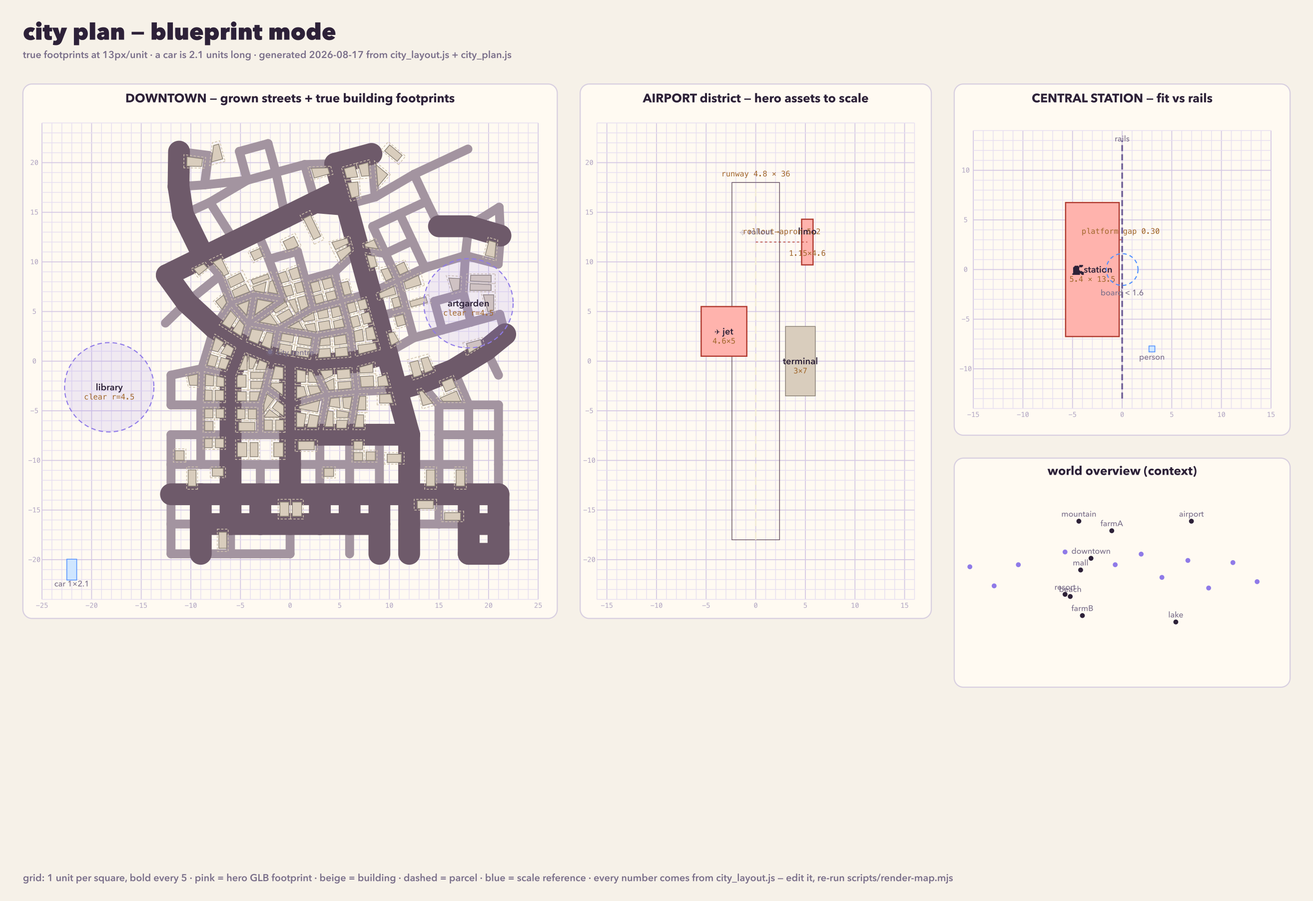
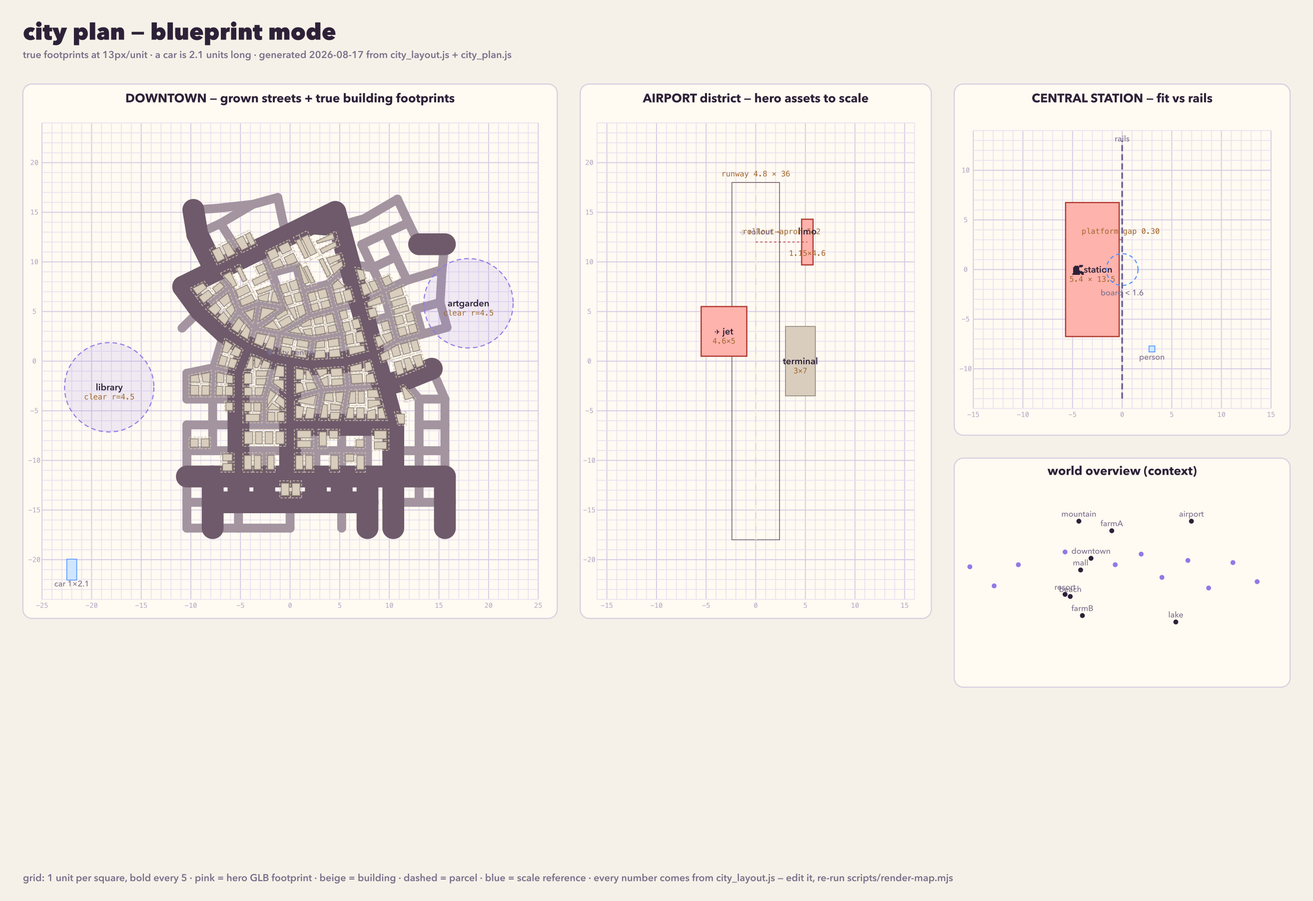
Cap the grown city at ±17 units — it was colliding with Harvest Fields
The ±22 bake ran the city into the farm district (FARM_A sits ~22 units
from downtown centre) and crowded the spur junctions. Rebaked the same
dense network at x2.6 (127 nodes / 198 edges / 185 lots) spanning ±17,
inside the plateau with clear margin to every outlying district.

Changed region(s): [[0.1248, 0.1553, 0.4056, 0.6522]]

diff --git a/city_plan.js b/city_plan.js
@@ -1,3 +1,4 @@
-// josauder dense run (pSeed 75) scaled x3.0 -> +-22 world units, so
-// blocks are 2.5-3.5 across and lanes leave buildable interiors.
-export default {"nodes":[[18.0,13.59],[15.0,13.59],[21.2,12.65],[21.0,-13.41],[18.0,-13.41],[21.0,-16.41],[15.0,-13.41],[18.0,-16.41],[21.0,-19.41],[12.0,-13.41],[18.0,-19.41],[9.0,-13.41],[12.0,-16.41],[12.0,-10.41],[6.0,-13.41],[9.0,-16.41],[12.0,-19.41],[12.0,-7.41],[3.0,-13.41],[9.0,-19.41],[10.76,-2.87],[0.0,-13.41],[9.76,0.81],[13.13,-2.22],[-3.0,-13.41],[0.0,-10.41],[8.76,4.45],[6.43,-0.1],[16.47,-0.87],[-6.0,-13.41],[0.0,-7.41],[8.11,6.85],[2.23,-0.38],[19.75,1.14],[-9.0,-13.41],[-6.0,-10.41],[0.0,-4.41],[3.0,-7.41],[6.9,11.28],[-1.75,0.3],[-12.0,-13.41],[-9.0,-16.41],[-6.0,-7.41],[0.0,0.0],[6.0,-7.41],[5.68,15.75],[-4.82,1.56],[-9.0,-19.41],[-6.0,-16.41],[-6.0,-4.41],[9.0,-7.41],[4.55,19.89],[-7.64,3.36],[-3.0,-16.41],[-6.0,-1.41],[8.2,20.88],[-10.42,5.92],[0.0,-16.41],[-12.42,8.67],[3.0,-16.41],[-8.7,10.5],[6.0,-16.41],[-5.56,12.04],[-10.79,14.76],[-3.35,13.12],[-11.24,17.59],[-0.47,14.53],[-11.19,21.11],[2.54,16.01],[5.25,17.34],[17.66,10.64],[20.97,9.78],[21.07,15.51],[21.0,-1.41],[21.0,-7.41],[21.0,-10.41],[21.0,-4.41],[18.0,-4.41],[18.0,-7.41],[15.0,-7.41],[15.0,-10.41],[15.0,-4.41],[15.0,-16.41],[18.0,-10.41],[6.0,-10.41],[3.0,-10.41],[9.0,-10.41],[-3.0,-10.41],[11.66,5.24],[6.72,-3.07],[10.87,8.14],[12.45,2.35],[3.73,-3.36],[5.22,6.06],[2.71,2.58],[9.6,10.85],[15.34,3.14],[6.01,3.16],[4.43,8.95],[-1.21,3.25],[-2.47,-2.6],[12.32,12.12],[14.55,6.03],[1.53,8.16],[-4.16,3.78],[-12.0,-16.41],[-9.0,-7.41],[8.58,16.54],[11.04,14.84],[13.59,9.41],[17.45,6.82],[2.32,5.27],[0.74,11.06],[-3.62,6.74],[-12.0,-19.41],[-9.0,-10.41],[-9.0,-4.41],[-6.0,-19.41],[-3.0,-4.41],[-5.97,5.84],[8.33,13.57],[13.76,16.11],[18.24,3.93],[-2.15,10.27],[-0.67,6.2],[-12.0,-10.41],[-12.0,-4.41],[-3.0,-19.41],[-3.0,-7.41],[-7.04,8.64],[-8.88,-0.76],[-12.56,3.84],[12.49,18.83],[21.13,4.72],[-12.0,-7.41],[-12.0,-1.41],[1.47,19.81],[0.0,-19.41],[15.21,20.1],[21.68,2.71],[-1.43,19.02],[17.92,21.37],[-2.22,21.92],[6.0,-19.41],[-8.08,16.01],[-5.11,21.13],[-4.32,18.23],[-8.23,20.73],[-8.62,17.76]],"edges":[[0,1,0],[0,2,0],[0,70,1],[0,72,1],[1,121,1],[2,71,1],[2,72,1],[3,4,0],[3,5,0],[3,75,1],[4,6,0],[4,7,0],[4,83,1],[5,7,0],[5,8,0],[6,9,0],[6,80,1],[6,82,1],[7,10,0],[7,82,1],[8,10,0],[9,11,0],[9,12,0],[9,13,0],[11,14,0],[11,15,0],[11,86,1],[12,16,0],[12,82,1],[13,17,0],[13,80,1],[14,18,0],[14,61,0],[14,84,1],[15,19,0],[15,61,0],[17,20,0],[17,50,0],[18,21,0],[18,59,0],[18,85,1],[20,22,0],[20,23,0],[20,89,1],[21,24,0],[21,25,0],[22,26,0],[22,27,0],[22,91,1],[23,28,0],[23,81,1],[24,29,0],[24,53,0],[24,87,1],[25,30,0],[25,85,1],[25,87,1],[26,31,0],[26,88,1],[27,32,0],[27,89,1],[27,97,1],[28,33,0],[28,77,1],[29,34,0],[29,35,0],[29,48,0],[30,36,0],[30,37,0],[30,128,1],[31,38,0],[31,90,1],[31,93,1],[32,43,0],[32,92,1],[32,94,1],[33,73,1],[33,139,0],[34,40,0],[34,41,0],[35,42,0],[35,87,1],[35,115,1],[36,43,0],[36,92,1],[36,100,1],[37,44,0],[37,85,1],[37,92,1],[38,45,0],[38,95,1],[38,98,1],[39,43,0],[39,46,0],[39,99,1],[39,100,1],[40,105,1],[40,125,1],[41,47,0],[41,48,0],[41,105,1],[42,49,0],[42,106,1],[42,128,1],[44,50,0],[44,84,1],[44,89,1],[45,68,0],[45,69,0],[45,107,1],[46,52,0],[46,54,0],[46,104,1],[47,114,1],[47,117,1],[48,53,0],[48,117,1],[49,54,0],[49,116,1],[49,118,1],[50,86,1],[51,55,0],[51,69,0],[51,136,1],[52,56,0],[52,119,1],[52,130,1],[53,57,0],[54,130,1],[55,107,1],[56,58,0],[56,129,1],[56,131,1],[57,59,0],[57,137,1],[58,60,0],[59,61,0],[60,62,0],[60,63,0],[60,129,1],[61,143,1],[62,64,0],[62,144,1],[63,65,0],[63,144,1],[64,66,0],[64,123,1],[65,67,0],[65,148,1],[66,68,0],[66,140,1],[67,147,1],[68,69,0],[68,136,1],[70,71,1],[70,109,1],[70,110,1],[74,75,1],[74,76,1],[74,78,1],[76,77,1],[77,78,1],[77,81,1],[78,79,1],[78,83,1],[79,80,1],[79,81,1],[80,83,1],[84,85,1],[84,86,1],[88,90,1],[88,91,1],[89,92,1],[90,95,1],[90,109,1],[91,96,1],[93,97,1],[93,98,1],[93,111,1],[94,97,1],[94,99,1],[95,101,1],[95,120,1],[96,102,1],[96,122,1],[98,103,1],[99,104,1],[99,111,1],[100,118,1],[101,108,1],[101,109,1],[102,110,1],[103,111,1],[103,112,1],[104,113,1],[104,119,1],[104,124,1],[105,114,1],[106,115,1],[106,116,1],[106,134,1],[107,132,1],[108,120,1],[108,121,1],[110,122,1],[112,123,1],[113,119,1],[113,124,1],[115,125,1],[116,126,1],[116,130,1],[117,127,1],[118,128,1],[119,129,1],[121,132,1],[122,133,1],[123,124,1],[125,134,1],[126,135,1],[127,137,1],[130,135,1],[132,138,1],[133,139,1],[136,140,1],[138,141,1],[140,142,1],[140,146,1],[142,145,1],[144,146,1],[145,146,1],[146,148,1],[147,148,1]],"lots":[{"a":2.69,"c":[1.9,-4.6],"v":[[3.13,-5.33],[0.51,-4.85],[0.51,-4.52],[3.43,-3.7]]},{"a":2.69,"c":[7.77,1.34],"v":[[9.13,1.17],[6.6,0.48],[6.44,1.7],[8.9,2.02]]},{"a":2.67,"c":[7.76,-2.04],"v":[[8.7,-2.73],[6.94,-2.82],[6.79,-1.35],[8.63,-1.26]]},{"a":2.67,"c":[-3.5,2.53],"v":[[-3.15,1.42],[-4.45,1.96],[-3.99,3.51],[-2.41,3.22]]},{"a":2.62,"c":[1.63,-8.5],"v":[[0.51,-9.09],[0.51,-7.92],[2.76,-7.92],[2.76,-9.09]]},{"a":2.61,"c":[-1.17,-8.91],"v":[[-0.51,-9.9],[-1.83,-9.9],[-1.83,-7.92],[-0.51,-7.92]]},{"a":2.6,"c":[-4.37,-6.59],"v":[[-5.49,-7.17],[-5.49,-6.01],[-3.24,-6.01],[-3.24,-7.17]]},{"a":2.52,"c":[-6.06,4.13],"v":[[-6.06,2.96],[-7.15,3.65],[-5.94,5.45],[-5.09,4.48]]},{"a":2.48,"c":[-5.0,7.07],"v":[[-4.26,8.06],[-3.72,6.96],[-5.83,6.15],[-6.19,7.11]]},{"a":2.38,"c":[-2.85,5.61],"v":[[-3.82,4.31],[-3.43,6.46],[-1.29,6.07]]},{"a":2.35,"c":[-2.23,2.15],"v":[[-1.88,0.9],[-3.15,1.42],[-2.41,3.22],[-1.49,3.05]]},{"a":2.32,"c":[-1.18,-1.19],"v":[[-0.51,-2.04],[-2.08,-2.04],[-1.64,-0.24],[-0.51,-0.43]]},{"a":2.3,"c":[2.32,-6.05],"v":[[1.82,-5.09],[3.13,-5.33],[2.85,-6.9],[1.49,-6.9]]},{"a":2.24,"c":[5.4,-1.3],"v":[[6.24,-0.62],[6.36,-1.86],[4.54,-1.98],[4.46,-0.74]]},{"a":2.23,"c":[1.08,-5.93],"v":[[0.51,-6.9],[0.51,-4.85],[1.82,-5.09],[1.49,-6.9]]},{"a":2.18,"c":[1.27,0.91],"v":[[2.07,0.16],[0.28,0.47],[0.48,1.64],[2.27,1.35]]},{"a":2.17,"c":[-0.51,4.57],"v":[[0.05,5.53],[0.6,4.56],[-1.03,3.62],[-1.67,4.55]]},{"a":2.14,"c":[-4.96,-1.93],"v":[[-4.23,-2.9],[-5.49,-2.9],[-5.49,-1.51],[-5.36,-1.18],[-4.23,-1.18]]},{"a":2.11,"c":[-0.46,1.22],"v":[[0.28,0.47],[-1.42,0.76],[-1.2,1.97],[0.48,1.68]]},{"a":2.08,"c":[5.18,0.93],"v":[[6.12,0.4],[4.35,0.27],[4.27,1.42],[5.96,1.64]]},{"a":2.04,"c":[4.0,-5.82],"v":[[3.34,-6.9],[3.74,-4.67],[4.47,-4.79],[4.47,-6.9]]},{"a":2.03,"c":[5.06,2.13],"v":[[5.96,1.64],[4.27,1.42],[4.19,2.6],[5.8,2.88]]},{"a":2.01,"c":[8.09,2.78],"v":[[7.62,1.86],[7.41,3.49],[8.42,3.77],[8.9,2.02]]},{"a":2.01,"c":[1.12,-1.53],"v":[[1.73,-2.35],[0.51,-2.35],[0.51,-0.6],[1.73,-0.81]]},{"a":1.99,"c":[3.48,0.82],"v":[[4.35,0.27],[2.56,0.15],[2.76,1.38],[4.27,1.48]]},{"a":1.97,"c":[1.3,5.9],"v":[[0.52,6.57],[1.64,6.87],[2.04,5.38],[1.0,4.79]]},{"a":1.94,"c":[-5.12,3.34],"v":[[-4.88,2.2],[-6.06,2.96],[-5.09,4.48],[-4.43,3.73]]},{"a":1.9,"c":[1.46,2.02],"v":[[2.27,1.35],[0.48,1.64],[0.66,2.69],[2.44,2.38]]},{"a":1.9,"c":[5.49,-2.43],"v":[[4.54,-1.98],[6.36,-1.86],[6.46,-2.86],[4.61,-3.04]]},{"a":1.89,"c":[-7.34,1.58],"v":[[-6.42,1.98],[-7.25,0.68],[-8.11,0.94],[-7.58,2.72]]},{"a":1.89,"c":[3.47,3.57],"v":[[4.33,3.11],[2.81,2.84],[2.6,4.04],[4.12,4.31]]},{"a":1.88,"c":[0.46,8.81],"v":[[1.26,8.24],[0.12,7.93],[-0.38,9.3],[0.85,9.75]]},{"a":1.88,"c":[7.68,-0.8],"v":[[8.63,-1.26],[6.79,-1.35],[6.72,-0.55],[8.57,-0.04]]},{"a":1.88,"c":[7.27,-4.23],"v":[[7.77,-5.17],[6.61,-5.17],[6.92,-3.3],[7.77,-3.26]]},{"a":1.87,"c":[6.93,2.56],"v":[[6.44,1.7],[6.25,3.17],[7.41,3.49],[7.62,1.86]]},{"a":1.85,"c":[3.79,7.81],"v":[[3.33,6.97],[2.96,8.3],[4.26,8.66],[4.62,7.32]]},{"a":1.81,"c":[-1.03,-4.82],"v":[[-0.51,-5.72],[-0.64,-5.72],[-2.09,-4.66],[-1.38,-3.69],[-0.51,-4.33]]},{"a":1.79,"c":[-1.33,-2.58],"v":[[-0.51,-3.74],[-2.2,-2.5],[-2.08,-2.04],[-0.51,-2.04]]},{"a":1.79,"c":[1.11,-3.09],"v":[[0.51,-2.35],[1.52,-2.35],[1.88,-3.63],[0.51,-4.02]]},{"a":1.78,"c":[-1.96,4.01],"v":[[-1.25,3.5],[-3.55,3.92],[-1.98,5.0],[-1.03,3.62]]},{"a":1.75,"c":[-7.8,0.04],"v":[[-8.11,0.94],[-7.03,0.62],[-7.47,-0.83],[-8.57,-0.58]]},{"a":1.75,"c":[5.74,-4.2],"v":[[6.14,-5.07],[5.26,-4.92],[5.12,-3.47],[6.43,-3.34]]},{"a":1.73,"c":[-0.27,2.33],"v":[[0.48,1.68],[-1.2,1.97],[-1.02,2.97],[0.66,2.69]]},{"a":1.72,"c":[-8.11,-1.94],"v":[[-8.7,-2.69],[-8.65,-1.06],[-7.52,-1.31],[-7.57,-2.72]]},{"a":1.72,"c":[4.51,-4.16],"v":[[5.12,-3.47],[5.26,-4.92],[3.74,-4.67],[3.94,-3.58]]},{"a":1.72,"c":[-6.25,1.07],"v":[[-5.45,1.36],[-5.88,0.27],[-7.25,0.68],[-6.42,1.98]]},{"a":1.71,"c":[-7.11,-3.45],"v":[[-6.51,-4.17],[-7.7,-4.17],[-7.7,-2.72],[-6.51,-2.76]]},{"a":1.68,"c":[-6.7,-0.25],"v":[[-7.03,0.62],[-5.88,0.27],[-6.41,-1.07],[-7.47,-0.83]]},{"a":1.68,"c":[7.68,4.33],"v":[[8.42,3.77],[7.33,3.47],[6.94,4.9],[8.03,5.2]]},{"a":1.67,"c":[4.63,4.95],"v":[[5.05,5.76],[5.41,4.46],[4.15,4.12],[3.92,5.45]]},{"a":1.67,"c":[-3.17,7.3],"v":[[-2.38,6.75],[-3.65,6.98],[-3.72,6.96],[-4.01,7.55],[-2.11,8.24]]},{"a":1.65,"c":[-2.19,-6.44],"v":[[-1.62,-7.17],[-2.76,-7.17],[-2.76,-5.72],[-1.62,-5.72]]},{"a":1.65,"c":[6.52,3.87],"v":[[7.33,3.47],[6.25,3.17],[6.24,3.21],[5.86,4.6],[6.94,4.9]]},{"a":1.65,"c":[2.44,-2.89],"v":[[1.88,-3.63],[1.52,-2.35],[2.95,-2.35],[3.39,-3.21]]},{"a":1.62,"c":[-0.22,7.02],"v":[[0.22,7.96],[0.6,6.59],[-0.4,6.32],[-0.56,6.6],[-0.94,7.64]]},{"a":1.62,"c":[-2.31,-4.18],"v":[[-1.38,-3.69],[-2.76,-5.57],[-2.76,-4.44],[-2.34,-2.99]]},{"a":1.61,"c":[-1.06,-6.44],"v":[[-0.51,-7.17],[-1.62,-7.17],[-1.62,-5.72],[-0.51,-5.72]]},{"a":1.61,"c":[-3.3,-2.41],"v":[[-4.23,-1.87],[-2.53,-1.87],[-2.7,-2.53],[-2.81,-2.9],[-4.23,-2.9]]},{"a":1.61,"c":[-2.99,8.27],"v":[[-1.94,8.99],[-1.72,8.38],[-4.01,7.55],[-4.3,8.14]]},{"a":1.6,"c":[2.58,7.49],"v":[[3.32,6.99],[2.19,6.68],[1.83,7.99],[2.96,8.3]]},{"a":1.59,"c":[5.2,-6.35],"v":[[4.47,-6.9],[4.47,-5.81],[6.02,-5.81],[5.84,-6.9]]},{"a":1.59,"c":[-3.62,-3.53],"v":[[-4.24,-2.9],[-2.81,-2.9],[-3.18,-4.17],[-4.24,-4.17]]},{"a":1.59,"c":[-4.87,-3.53],"v":[[-5.49,-2.9],[-4.24,-2.9],[-4.24,-4.17],[-5.49,-4.17]]},{"a":1.57,"c":[3.32,4.72],"v":[[4.12,4.31],[2.71,4.06],[2.53,5.08],[3.92,5.45]]},{"a":1.56,"c":[-3.33,-1.43],"v":[[-4.23,-1.0],[-2.32,-1.0],[-2.53,-1.87],[-4.23,-1.87]]},{"a":1.56,"c":[-0.65,8.45],"v":[[-0.38,9.3],[0.12,7.93],[-0.94,7.64],[-1.41,8.93]]},{"a":1.55,"c":[-3.81,-5.33],"v":[[-4.38,-4.65],[-3.24,-4.65],[-3.24,-6.01],[-4.38,-6.01]]},{"a":1.54,"c":[-4.6,5.47],"v":[[-4.31,4.32],[-5.56,5.74],[-3.94,6.36]]},{"a":1.53,"c":[4.13,6.6],"v":[[4.92,6.22],[3.63,5.87],[3.33,6.97],[4.62,7.32]]},{"a":1.53,"c":[0.93,7.42],"v":[[1.64,6.87],[0.6,6.59],[0.22,7.96],[1.26,8.24]]},{"a":1.52,"c":[-4.93,-5.33],"v":[[-5.49,-6.01],[-5.49,-4.65],[-4.38,-4.65],[-4.38,-6.01]]},{"a":1.51,"c":[3.76,-1.28],"v":[[4.46,-0.74],[4.51,-1.47],[3.34,-2.06],[2.74,-0.86]]},{"a":1.5,"c":[-8.21,-3.44],"v":[[-7.7,-4.17],[-8.75,-4.17],[-8.7,-2.69],[-7.7,-2.72]]},{"a":1.49,"c":[6.23,5.39],"v":[[6.94,4.9],[5.86,4.6],[5.51,5.89],[6.59,6.18]]},{"a":1.48,"c":[-4.59,-0.18],"v":[[-4.23,-1.18],[-5.36,-1.18],[-4.54,0.89],[-4.23,0.76]]},{"a":1.46,"c":[3.54,1.96],"v":[[4.27,1.48],[2.76,1.38],[2.92,2.37],[4.19,2.6]]},{"a":1.46,"c":[-2.83,-0.44],"v":[[-2.1,-0.11],[-2.32,-1.0],[-3.72,-1.0],[-3.17,0.33]]},{"a":1.46,"c":[4.9,3.76],"v":[[5.41,4.46],[5.71,3.35],[4.33,3.11],[4.15,4.12]]},{"a":1.44,"c":[-1.81,7.47],"v":[[-1.72,8.38],[-1.04,6.51],[-2.38,6.75],[-2.11,8.24]]},{"a":1.42,"c":[5.28,-5.37],"v":[[4.47,-5.81],[4.47,-4.79],[6.14,-5.07],[6.02,-5.81]]},{"a":1.38,"c":[-7.06,-5.27],"v":[[-7.61,-4.65],[-6.51,-4.65],[-6.51,-5.9],[-7.61,-5.9]]},{"a":1.37,"c":[2.91,6.28],"v":[[3.63,5.87],[2.49,5.56],[2.19,6.68],[3.32,6.99]]},{"a":1.37,"c":[-7.03,-2.08],"v":[[-7.57,-2.72],[-7.52,-1.31],[-6.51,-1.54],[-6.51,-2.76]]},{"a":1.35,"c":[4.08,-2.42],"v":[[3.34,-2.06],[4.51,-1.47],[4.61,-3.04],[3.87,-3.11]]},{"a":1.35,"c":[0.43,5.56],"v":[[0.6,4.56],[-0.4,6.32],[0.52,6.57],[1.0,4.79]]},{"a":1.32,"c":[2.19,3.3],"v":[[2.6,4.04],[2.81,2.84],[2.71,2.82],[1.63,3.01],[1.19,3.79]]},{"a":1.29,"c":[-0.91,5.56],"v":[[-1.98,5.0],[-0.38,6.11],[-0.56,6.6],[0.05,5.53],[-1.67,4.55]]},{"a":1.27,"c":[2.16,-1.6],"v":[[2.22,-0.9],[2.95,-2.35],[1.73,-2.35],[1.73,-0.81]]},{"a":1.27,"c":[-3.84,-0.22],"v":[[-3.17,0.33],[-3.72,-1.0],[-4.23,-1.0],[-4.23,0.76]]},{"a":1.26,"c":[1.96,4.43],"v":[[2.71,4.06],[1.19,3.79],[0.95,4.2],[2.42,5.04],[2.53,5.08]]},{"a":1.18,"c":[-2.06,-5.42],"v":[[-2.09,-4.66],[-0.64,-5.72],[-2.76,-5.72],[-2.76,-5.57]]},{"a":1.16,"c":[0.69,3.53],"v":[[0.95,4.2],[1.63,3.01],[-0.51,3.37]]},{"a":3.56,"c":[2.22,13.48],"v":[[2.44,11.78],[1.01,14.69],[2.0,15.18],[3.43,12.26]]},{"a":2.64,"c":[12.32,7.9],"v":[[13.55,7.64],[11.43,7.0],[11.15,8.0],[13.16,8.94]]},{"a":2.61,"c":[-5.48,8.16],"v":[[-4.81,9.18],[-4.26,8.06],[-6.19,7.11],[-6.64,8.28]]},{"a":2.6,"c":[-4.83,-8.91],"v":[[-4.18,-9.9],[-5.49,-9.9],[-5.49,-7.92],[-4.18,-7.92]]},{"a":2.57,"c":[0.7,-14.91],"v":[[1.34,-15.9],[0.05,-15.9],[0.05,-13.92],[1.34,-13.92]]},{"a":2.54,"c":[12.72,-0.91],"v":[[11.8,0.14],[12.96,0.46],[13.5,-1.52],[12.96,-1.74],[12.36,-1.9]]},{"a":2.47,"c":[-0.58,-14.91],"v":[[0.05,-15.9],[-1.2,-15.9],[-1.2,-13.92],[0.05,-13.92]]},{"a":2.41,"c":[0.11,11.76],"v":[[0.49,12.89],[1.14,11.57],[0.42,11.21],[-0.45,10.98],[-1.03,12.15]]},{"a":2.35,"c":[-6.89,9.34],"v":[[-8.12,10.21],[-6.95,10.78],[-5.9,8.64],[-6.64,8.28],[-6.83,8.77]]},{"a":2.3,"c":[10.5,-9.79],"v":[[9.51,-10.37],[9.51,-9.21],[11.49,-9.21],[11.49,-10.37]]},{"a":2.25,"c":[13.77,-0.35],"v":[[12.96,0.46],[13.95,0.73],[14.67,-1.05],[13.5,-1.52]]},{"a":2.17,"c":[-3.63,-8.91],"v":[[-3.08,-9.9],[-4.18,-9.9],[-4.18,-7.92],[-3.08,-7.92]]},{"a":2.11,"c":[9.8,6.86],"v":[[11.01,6.71],[8.84,6.11],[8.65,6.83],[10.71,7.8]]},{"a":2.09,"c":[9.63,-3.78],"v":[[8.78,-4.4],[8.78,-3.21],[10.3,-3.13],[10.65,-4.4]]},{"a":2.03,"c":[5.49,10.95],"v":[[6.41,11.15],[4.96,9.78],[4.37,10.98],[6.21,11.88]]},{"a":2.01,"c":[5.11,11.87],"v":[[4.37,10.98],[3.86,12.01],[6.01,12.6],[6.21,11.88]]},{"a":1.94,"c":[12.94,5.97],"v":[[13.95,6.7],[14.2,5.88],[11.9,5.26],[11.7,6.02]]},{"a":1.9,"c":[13.51,-3.69],"v":[[13.32,-4.79],[12.79,-2.84],[13.24,-2.72],[14.69,-4.42]]},{"a":1.88,"c":[7.01,-6.03],"v":[[7.56,-6.9],[6.33,-6.9],[6.61,-5.17],[7.56,-5.17]]},{"a":1.84,"c":[9.32,-2.0],"v":[[10.18,-2.66],[8.7,-2.73],[8.64,-1.47],[9.77,-1.16]]},{"a":1.81,"c":[5.64,7.34],"v":[[6.37,6.62],[5.39,6.35],[4.92,8.07],[5.9,8.34]]},{"a":1.78,"c":[-9.77,-1.92],"v":[[-9.18,-2.65],[-10.25,-2.62],[-10.52,-1.35],[-9.13,-1.06]]},{"a":1.73,"c":[11.27,9.34],"v":[[10.99,8.45],[10.41,9.69],[11.56,10.23],[12.13,8.99]]},{"a":1.72,"c":[11.1,4.1],"v":[[10.71,3.25],[10.33,4.63],[11.49,4.95],[11.87,3.57]]},{"a":1.68,"c":[-11.13,-9.5],"v":[[-10.5,-10.17],[-11.76,-10.17],[-11.76,-8.84],[-10.5,-8.84]]},{"a":1.67,"c":[-7.28,-11.19],"v":[[-8.05,-11.74],[-8.05,-10.65],[-6.51,-10.65],[-6.51,-11.74]]},{"a":1.67,"c":[-3.36,10.76],"v":[[-2.96,11.58],[-2.51,10.5],[-3.7,9.91],[-4.26,11.04]]},{"a":1.65,"c":[8.28,10.05],"v":[[8.02,9.11],[7.52,10.94],[8.59,10.77],[8.97,9.37]]},{"a":1.64,"c":[9.75,8.76],"v":[[9.62,7.82],[8.91,9.35],[9.91,9.62],[10.55,8.25]]},{"a":1.56,"c":[10.37,2.34],"v":[[10.15,1.31],[9.7,2.98],[10.46,3.18],[11.19,1.9]]},{"a":1.54,"c":[8.12,-9.57],"v":[[8.76,-8.97],[8.76,-10.17],[7.48,-10.17],[7.48,-8.97]]},{"a":1.51,"c":[-6.87,5.94],"v":[[-7.74,6.04],[-6.64,6.93],[-6.23,5.87],[-6.86,4.94]]},{"a":1.5,"c":[7.31,5.69],"v":[[8.03,5.2],[6.94,4.9],[6.59,6.18],[7.68,6.48]]},{"a":1.49,"c":[3.9,-11.21],"v":[[3.24,-11.77],[3.24,-10.65],[4.57,-10.65],[4.57,-11.77]]},{"a":1.48,"c":[-8.18,-6.53],"v":[[-7.6,-7.17],[-8.76,-7.17],[-8.76,-5.9],[-7.6,-5.9]]},{"a":1.46,"c":[-7.1,-8.27],"v":[[-7.69,-7.65],[-6.51,-7.65],[-6.51,-8.89],[-7.69,-8.89]]},{"a":1.45,"c":[-8.97,9.29],"v":[[-9.28,8.44],[-9.98,9.3],[-8.57,9.99],[-8.06,9.42]]},{"a":1.43,"c":[-8.19,-5.27],"v":[[-8.76,-5.9],[-8.76,-4.65],[-7.61,-4.65],[-7.61,-5.9]]},{"a":1.41,"c":[6.86,-8.49],"v":[[6.24,-7.92],[7.48,-7.92],[7.48,-9.05],[6.24,-9.05]]},{"a":1.39,"c":[6.86,-9.61],"v":[[7.48,-9.05],[7.48,-10.17],[6.24,-10.17],[6.24,-9.05]]},{"a":1.37,"c":[10.7,5.92],"v":[[10.38,5.14],[10.03,6.44],[11.01,6.71],[11.36,5.41]]},{"a":1.34,"c":[8.11,11.72],"v":[[7.38,11.45],[7.28,11.82],[8.59,12.43],[9.19,11.16]]},{"a":1.33,"c":[-8.22,-8.27],"v":[[-8.76,-8.89],[-8.76,-7.65],[-7.69,-7.65],[-7.69,-8.89]]},{"a":2.69,"c":[17.16,-11.77],"v":[[17.76,-12.9],[16.56,-12.9],[16.56,-10.65],[17.76,-10.65]]},{"a":2.69,"c":[14.16,-11.77],"v":[[14.76,-12.9],[13.57,-12.9],[13.57,-10.65],[14.76,-10.65]]},{"a":2.62,"c":[19.2,7.44],"v":[[17.75,7.97],[20.67,7.81],[20.67,7.0],[17.7,7.0]]},{"a":2.62,"c":[19.22,8.34],"v":[[20.67,8.79],[20.67,7.81],[17.75,7.97],[17.8,8.79]]},{"a":2.61,"c":[20.11,5.86],"v":[[20.67,7.0],[20.67,4.84],[19.87,4.62],[19.22,7.0]]},{"a":2.58,"c":[6.44,17.28],"v":[[6.11,16.12],[5.54,18.23],[6.97,18.36],[7.14,16.4]]},{"a":2.56,"c":[-9.63,20.06],"v":[[-10.71,19.48],[-10.69,20.81],[-8.5,20.52],[-8.64,19.45]]},{"a":2.55,"c":[-7.4,21.01],"v":[[-6.55,20.13],[-8.12,19.7],[-7.83,22.01],[-7.11,22.2]]},{"a":2.54,"c":[3.09,19.06],"v":[[4.09,19.64],[4.32,18.82],[2.17,18.21],[1.78,19.58]]},{"a":2.52,"c":[10.41,20.96],"v":[[10.94,19.81],[9.18,21.27],[9.89,22.11],[11.64,20.65]]},{"a":2.51,"c":[16.12,-3.7],"v":[[17.02,-2.74],[17.63,-4.17],[15.11,-4.17],[14.73,-3.72]]},{"a":2.49,"c":[20.27,11.3],"v":[[19.43,10.43],[19.96,12.48],[20.93,12.2],[20.75,10.09]]},{"a":2.48,"c":[-9.87,-11.77],"v":[[-9.32,-12.9],[-10.42,-12.9],[-10.42,-10.65],[-9.32,-10.65]]},{"a":2.45,"c":[-6.78,-18.04],"v":[[-7.33,-16.92],[-6.24,-16.92],[-6.24,-19.17],[-7.33,-19.17]]},{"a":2.43,"c":[13.63,-14.46],"v":[[14.76,-13.92],[14.76,-15.0],[12.51,-15.0],[12.51,-13.92]]},{"a":2.37,"c":[16.37,-15.64],"v":[[17.49,-15.11],[17.49,-16.17],[15.24,-16.17],[15.24,-15.11]]},{"a":2.3,"c":[6.12,19.02],"v":[[6.67,19.94],[7.1,18.37],[5.54,18.23],[5.18,19.53]]},{"a":2.28,"c":[16.0,-2.39],"v":[[15.0,-2.02],[16.45,-1.43],[17.02,-2.74],[15.55,-3.37]]},{"a":2.25,"c":[9.13,18.73],"v":[[10.12,18.83],[8.76,17.19],[8.5,20.18]]},{"a":2.2,"c":[18.72,1.6],"v":[[17.4,1.85],[19.38,2.39],[19.58,1.66],[19.45,1.56],[17.76,0.52]]},{"a":2.14,"c":[16.64,7.73],"v":[[17.3,8.54],[17.22,7.01],[16.3,6.76],[15.73,8.63]]},{"a":2.12,"c":[7.49,19.27],"v":[[8.17,18.46],[7.1,18.37],[6.67,19.94],[8.01,20.3]]}]};
+// josauder dense run (pSeed 75) scaled x2.6 -> +-17 world units.
+// Span is capped at 17: Harvest Fields sits ~22 units out, and the
+// previous +-22 bake ran the city straight into the farm district.
+export default {"nodes":[[15.6,11.78],[13.0,11.78],[15.6,-11.62],[13.0,-11.62],[15.6,-14.22],[10.4,-11.62],[15.6,-16.82],[7.8,-11.62],[10.4,-14.22],[10.4,-9.02],[5.2,-11.62],[7.8,-14.22],[10.4,-16.82],[10.4,-6.42],[2.6,-11.62],[7.8,-16.82],[9.33,-2.48],[0.0,-11.62],[8.46,0.7],[11.38,-1.93],[-2.6,-11.62],[0.0,-9.02],[7.6,3.86],[5.57,-0.08],[14.28,-0.76],[-5.2,-11.62],[0.0,-6.42],[7.03,5.93],[1.93,-0.33],[-7.8,-11.62],[-5.2,-9.02],[0.0,-3.82],[2.6,-6.42],[5.98,9.78],[-1.52,0.26],[-10.4,-11.62],[-7.8,-14.22],[-5.2,-6.42],[0.0,0.0],[5.2,-6.42],[4.93,13.65],[-4.18,1.35],[-7.8,-16.82],[-5.2,-14.22],[-5.2,-3.82],[7.8,-6.42],[-6.62,2.91],[-2.6,-14.22],[-5.2,-1.22],[-9.03,5.13],[0.0,-14.22],[-10.77,7.51],[2.6,-14.22],[-7.54,9.1],[5.2,-14.22],[-4.82,10.43],[-9.35,12.79],[-2.9,11.37],[-9.75,15.24],[-0.41,12.59],[2.2,13.88],[4.55,15.03],[15.31,9.22],[15.6,-3.82],[15.6,-6.42],[13.0,-6.42],[13.0,-9.02],[13.0,-3.82],[13.0,-14.22],[15.6,-9.02],[5.2,-9.02],[2.6,-9.02],[7.8,-9.02],[-2.6,-9.02],[10.1,4.54],[5.82,-2.66],[9.42,7.05],[10.79,2.03],[3.23,-2.91],[4.52,5.25],[2.35,2.23],[8.32,9.41],[13.3,2.72],[5.21,2.74],[3.84,7.76],[-1.05,2.81],[-2.14,-2.25],[10.67,10.51],[12.61,5.23],[1.33,7.07],[-3.61,3.28],[-10.4,-14.22],[-7.8,-6.42],[7.43,14.34],[9.57,12.86],[11.78,8.15],[15.12,5.91],[2.01,4.56],[0.65,9.58],[-3.14,5.84],[-10.4,-16.82],[-7.8,-9.02],[-7.8,-3.82],[-5.2,-16.82],[-2.6,-3.82],[-5.17,5.06],[7.22,11.76],[11.93,13.96],[15.81,3.4],[-1.86,8.9],[-0.58,5.37],[-10.4,-9.02],[-10.4,-3.82],[-2.6,-16.82],[-2.6,-6.42],[-6.1,7.49],[-7.69,-0.66],[-10.89,3.33],[10.82,16.32],[-10.4,-6.42],[-10.4,-1.22],[0.0,-16.82],[-1.24,16.49],[5.2,-16.82],[-7.0,13.88],[-3.75,15.8],[-7.47,15.39]],"edges":[[0,1,0],[0,62,1],[1,107,1],[2,3,0],[2,4,0],[2,69,1],[3,5,0],[3,66,1],[3,68,1],[4,6,0],[4,68,1],[5,7,0],[5,8,0],[5,9,0],[7,10,0],[7,11,0],[7,72,1],[8,12,0],[8,68,1],[9,13,0],[9,66,1],[10,14,0],[10,54,0],[10,70,1],[11,15,0],[11,54,0],[13,16,0],[13,45,0],[14,17,0],[14,52,0],[14,71,1],[16,18,0],[16,19,0],[16,75,1],[17,20,0],[17,21,0],[18,22,0],[18,23,0],[18,77,1],[19,24,0],[19,67,1],[20,25,0],[20,47,0],[20,73,1],[21,26,0],[21,71,1],[21,73,1],[22,27,0],[22,74,1],[23,28,0],[23,75,1],[23,83,1],[24,63,1],[25,29,0],[25,30,0],[25,43,0],[26,31,0],[26,32,0],[26,114,1],[27,33,0],[27,76,1],[27,79,1],[28,38,0],[28,78,1],[28,80,1],[29,35,0],[29,36,0],[30,37,0],[30,73,1],[30,101,1],[31,38,0],[31,78,1],[31,86,1],[32,39,0],[32,71,1],[32,78,1],[33,40,0],[33,81,1],[33,84,1],[34,38,0],[34,41,0],[34,85,1],[34,86,1],[35,91,1],[35,111,1],[36,42,0],[36,43,0],[36,91,1],[37,44,0],[37,92,1],[37,114,1],[39,45,0],[39,70,1],[39,75,1],[40,60,0],[40,61,0],[40,93,1],[41,46,0],[41,48,0],[41,90,1],[42,100,1],[42,103,1],[43,47,0],[43,103,1],[44,48,0],[44,102,1],[44,104,1],[45,72,1],[46,49,0],[46,105,1],[46,116,1],[47,50,0],[48,116,1],[49,51,0],[49,115,1],[49,117,1],[50,52,0],[50,121,1],[51,53,0],[52,54,0],[53,55,0],[53,56,0],[53,115,1],[54,123,1],[55,57,0],[55,124,1],[56,58,0],[56,124,1],[57,59,0],[57,109,1],[58,126,1],[59,60,0],[59,122,1],[60,61,0],[62,95,1],[62,96,1],[63,64,1],[63,67,1],[64,65,1],[64,69,1],[65,66,1],[65,67,1],[66,69,1],[70,71,1],[70,72,1],[74,76,1],[74,77,1],[75,78,1],[76,81,1],[76,95,1],[77,82,1],[79,83,1],[79,84,1],[79,97,1],[80,83,1],[80,85,1],[81,87,1],[81,106,1],[82,88,1],[82,108,1],[84,89,1],[85,90,1],[85,97,1],[86,104,1],[87,94,1],[87,95,1],[88,96,1],[89,97,1],[89,98,1],[90,99,1],[90,105,1],[90,110,1],[91,100,1],[92,101,1],[92,102,1],[92,119,1],[93,118,1],[94,106,1],[94,107,1],[96,108,1],[98,109,1],[99,105,1],[99,110,1],[101,111,1],[102,112,1],[102,116,1],[103,113,1],[104,114,1],[105,115,1],[107,118,1],[109,110,1],[111,119,1],[112,120,1],[113,121,1],[116,120,1],[122,125,1],[124,125,1],[125,126,1]],"lots":[{"a":2.02,"c":[1.64,-3.98],"v":[[2.72,-4.62],[0.44,-4.2],[0.44,-3.91],[2.97,-3.2]]},{"a":2.02,"c":[6.73,1.16],"v":[[7.91,1.01],[5.72,0.42],[5.58,1.47],[7.71,1.75]]},{"a":2.0,"c":[6.73,-1.77],"v":[[7.54,-2.37],[6.01,-2.45],[5.89,-1.17],[7.48,-1.09]]},{"a":2.0,"c":[-3.03,2.19],"v":[[-2.73,1.23],[-3.86,1.7],[-3.46,3.04],[-2.09,2.79]]},{"a":1.97,"c":[1.42,-7.37],"v":[[0.44,-7.87],[0.44,-6.86],[2.39,-6.86],[2.39,-7.87]]},{"a":1.96,"c":[-1.01,-7.72],"v":[[-0.44,-8.58],[-1.58,-8.58],[-1.58,-6.86],[-0.44,-6.86]]},{"a":1.95,"c":[-3.78,-5.71],"v":[[-4.76,-6.21],[-4.76,-5.21],[-2.81,-5.21],[-2.81,-6.21]]},{"a":1.89,"c":[-5.25,3.58],"v":[[-5.25,2.56],[-6.2,3.17],[-5.15,4.72],[-4.41,3.88]]},{"a":1.86,"c":[-4.33,6.13],"v":[[-3.69,6.98],[-3.22,6.03],[-5.05,5.33],[-5.37,6.16]]},{"a":1.79,"c":[-2.47,4.86],"v":[[-3.31,3.74],[-2.97,5.6],[-1.11,5.26]]},{"a":1.76,"c":[-1.93,1.86],"v":[[-1.63,0.78],[-2.73,1.23],[-2.09,2.79],[-1.29,2.65]]},{"a":1.75,"c":[-1.03,-1.03],"v":[[-0.44,-1.77],[-1.81,-1.77],[-1.42,-0.21],[-0.44,-0.37]]},{"a":1.72,"c":[2.01,-5.25],"v":[[1.58,-4.41],[2.72,-4.62],[2.47,-5.98],[1.29,-5.98]]},{"a":1.68,"c":[4.68,-1.13],"v":[[5.41,-0.54],[5.51,-1.61],[3.94,-1.71],[3.86,-0.64]]},{"a":1.68,"c":[0.94,-5.14],"v":[[0.44,-5.98],[0.44,-4.2],[1.58,-4.41],[1.29,-5.98]]},{"a":1.63,"c":[1.1,0.79],"v":[[1.8,0.14],[0.24,0.41],[0.41,1.43],[1.97,1.17]]},{"a":1.63,"c":[-0.45,3.96],"v":[[0.04,4.79],[0.52,3.95],[-0.9,3.14],[-1.45,3.94]]},{"a":1.61,"c":[-4.3,-1.68],"v":[[-3.66,-2.51],[-4.76,-2.51],[-4.76,-1.31],[-4.65,-1.03],[-3.66,-1.03]]},{"a":1.59,"c":[-0.4,1.06],"v":[[0.24,0.41],[-1.23,0.66],[-1.04,1.71],[0.42,1.46]]},{"a":1.57,"c":[4.49,0.81],"v":[[5.31,0.34],[3.77,0.24],[3.7,1.23],[5.17,1.42]]},{"a":1.53,"c":[3.47,-5.04],"v":[[2.89,-5.98],[3.24,-4.05],[3.88,-4.15],[3.88,-5.98]]},{"a":1.53,"c":[4.38,1.85],"v":[[5.17,1.42],[3.7,1.23],[3.63,2.25],[5.03,2.5]]},{"a":1.51,"c":[7.01,2.41],"v":[[6.61,1.61],[6.42,3.03],[7.3,3.26],[7.71,1.75]]},{"a":1.51,"c":[0.97,-1.33],"v":[[1.5,-2.04],[0.44,-2.04],[0.44,-0.52],[1.5,-0.7]]},{"a":1.5,"c":[3.02,0.71],"v":[[3.77,0.24],[2.22,0.13],[2.39,1.19],[3.7,1.28]]},{"a":1.48,"c":[1.13,5.12],"v":[[0.45,5.69],[1.42,5.96],[1.77,4.67],[0.87,4.15]]},{"a":1.45,"c":[-4.43,2.9],"v":[[-4.23,1.91],[-5.25,2.56],[-4.41,3.88],[-3.84,3.23]]},{"a":1.45,"c":[-6.69,4.33],"v":[[-6.53,3.42],[-7.54,4.36],[-6.72,5.25],[-5.95,4.28]]},{"a":1.43,"c":[1.27,1.75],"v":[[1.97,1.17],[0.41,1.43],[0.57,2.33],[2.11,2.06]]},{"a":1.43,"c":[4.76,-2.11],"v":[[3.94,-1.71],[5.51,-1.61],[5.6,-2.48],[4.0,-2.63]]},{"a":1.42,"c":[-6.36,1.37],"v":[[-5.57,1.71],[-6.28,0.59],[-7.03,0.82],[-6.57,2.35]]},{"a":1.42,"c":[3.0,3.1],"v":[[3.76,2.69],[2.44,2.46],[2.25,3.5],[3.57,3.73]]},{"a":1.42,"c":[0.4,7.63],"v":[[1.1,7.14],[0.1,6.87],[-0.33,8.06],[0.74,8.45]]},{"a":1.41,"c":[6.65,-0.69],"v":[[7.48,-1.09],[5.89,-1.17],[5.82,-0.47],[7.42,-0.04]]},{"a":1.41,"c":[6.3,-3.66],"v":[[6.73,-4.48],[5.73,-4.48],[6.0,-2.86],[6.73,-2.83]]},{"a":1.4,"c":[6.01,2.21],"v":[[5.58,1.47],[5.41,2.75],[6.42,3.03],[6.61,1.61]]},{"a":1.39,"c":[3.29,6.77],"v":[[2.88,6.04],[2.57,7.2],[3.69,7.5],[4.01,6.35]]},{"a":1.36,"c":[-0.89,-4.18],"v":[[-0.44,-4.96],[-0.56,-4.96],[-1.81,-4.04],[-1.2,-3.2],[-0.44,-3.76]]},{"a":1.35,"c":[-1.15,-2.24],"v":[[-0.44,-3.24],[-1.9,-2.17],[-1.81,-1.77],[-0.44,-1.77]]},{"a":1.34,"c":[0.96,-2.68],"v":[[0.44,-2.04],[1.32,-2.04],[1.63,-3.15],[0.44,-3.48]]},{"a":1.34,"c":[-1.69,3.47],"v":[[-1.09,3.03],[-3.08,3.39],[-1.72,4.33],[-0.9,3.14]]},{"a":1.32,"c":[-6.76,0.03],"v":[[-7.03,0.82],[-6.1,0.54],[-6.47,-0.72],[-7.43,-0.5]]},{"a":1.31,"c":[4.97,-3.64],"v":[[5.33,-4.39],[4.56,-4.27],[4.44,-3.01],[5.57,-2.9]]},{"a":1.3,"c":[-0.23,2.02],"v":[[0.42,1.46],[-1.04,1.71],[-0.88,2.57],[0.57,2.33]]},{"a":1.29,"c":[-7.03,-1.69],"v":[[-7.54,-2.33],[-7.49,-0.92],[-6.52,-1.14],[-6.56,-2.36]]},{"a":1.29,"c":[3.91,-3.61],"v":[[4.44,-3.01],[4.56,-4.27],[3.24,-4.05],[3.41,-3.11]]},{"a":1.29,"c":[-5.42,0.93],"v":[[-4.72,1.18],[-5.1,0.24],[-6.28,0.59],[-5.57,1.71]]},{"a":1.28,"c":[-6.16,-2.99],"v":[[-5.64,-3.61],[-6.68,-3.61],[-6.68,-2.36],[-5.64,-2.39]]},{"a":1.27,"c":[-5.81,-0.22],"v":[[-6.1,0.54],[-5.1,0.24],[-5.56,-0.93],[-6.47,-0.72]]},{"a":1.26,"c":[6.66,3.76],"v":[[7.3,3.26],[6.35,3.01],[6.01,4.25],[6.96,4.5]]},{"a":1.25,"c":[4.01,4.29],"v":[[4.38,4.99],[4.68,3.86],[3.6,3.57],[3.4,4.73]]},{"a":1.25,"c":[-2.75,6.32],"v":[[-2.06,5.85],[-3.16,6.05],[-3.22,6.03],[-3.48,6.54],[-1.83,7.14]]},{"a":1.24,"c":[-1.9,-5.59],"v":[[-1.4,-6.21],[-2.39,-6.21],[-2.39,-4.96],[-1.4,-4.96]]},{"a":1.24,"c":[5.65,3.35],"v":[[6.35,3.01],[5.41,2.75],[5.41,2.78],[5.08,3.99],[6.01,4.25]]},{"a":1.24,"c":[2.11,-2.5],"v":[[1.63,-3.15],[1.32,-2.04],[2.56,-2.04],[2.94,-2.78]]},{"a":1.22,"c":[-0.19,6.08],"v":[[0.19,6.9],[0.52,5.71],[-0.35,5.48],[-0.49,5.72],[-0.82,6.62]]},{"a":1.22,"c":[-2.0,-3.62],"v":[[-1.2,-3.2],[-2.39,-4.83],[-2.39,-3.85],[-2.02,-2.59]]},{"a":1.21,"c":[-0.92,-5.59],"v":[[-0.44,-6.21],[-1.4,-6.21],[-1.4,-4.96],[-0.44,-4.96]]},{"a":1.21,"c":[-2.86,-2.09],"v":[[-3.66,-1.62],[-2.2,-1.62],[-2.34,-2.2],[-2.43,-2.51],[-3.66,-2.51]]},{"a":1.21,"c":[-2.59,7.16],"v":[[-1.68,7.79],[-1.49,7.26],[-3.48,6.54],[-3.73,7.05]]},{"a":1.2,"c":[2.23,6.49],"v":[[2.88,6.06],[1.89,5.79],[1.59,6.93],[2.57,7.2]]},{"a":1.2,"c":[4.51,-5.51],"v":[[3.88,-5.98],[3.88,-5.03],[5.22,-5.03],[5.06,-5.98]]},{"a":1.2,"c":[-3.14,-3.06],"v":[[-3.68,-2.51],[-2.43,-2.51],[-2.76,-3.61],[-3.68,-3.61]]},{"a":1.19,"c":[-4.22,-3.06],"v":[[-4.76,-2.51],[-3.68,-2.51],[-3.68,-3.61],[-4.76,-3.61]]},{"a":1.18,"c":[2.88,4.09],"v":[[3.57,3.73],[2.35,3.52],[2.2,4.4],[3.4,4.73]]},{"a":1.17,"c":[-2.88,-1.24],"v":[[-3.66,-0.86],[-2.01,-0.86],[-2.2,-1.62],[-3.66,-1.62]]},{"a":1.17,"c":[-0.57,7.32],"v":[[-0.33,8.06],[0.1,6.87],[-0.82,6.62],[-1.22,7.74]]},{"a":1.17,"c":[-3.3,-4.62],"v":[[-3.8,-4.03],[-2.81,-4.03],[-2.81,-5.21],[-3.8,-5.21]]},{"a":1.16,"c":[-3.99,4.74],"v":[[-3.73,3.74],[-4.82,4.98],[-3.41,5.51]]},{"a":1.15,"c":[3.58,5.72],"v":[[4.27,5.39],[3.14,5.09],[2.88,6.04],[4.01,6.35]]},{"a":1.15,"c":[0.81,6.43],"v":[[1.42,5.96],[0.52,5.71],[0.19,6.9],[1.1,7.14]]},{"a":1.14,"c":[-4.28,-4.62],"v":[[-4.76,-5.21],[-4.76,-4.03],[-3.8,-4.03],[-3.8,-5.21]]},{"a":1.14,"c":[-5.95,5.15],"v":[[-6.71,5.23],[-5.75,6.0],[-5.4,5.09],[-5.95,4.28]]},{"a":1.13,"c":[3.26,-1.11],"v":[[3.86,-0.64],[3.91,-1.28],[2.9,-1.78],[2.37,-0.74]]},{"a":1.13,"c":[-7.12,-2.98],"v":[[-6.68,-3.61],[-7.58,-3.61],[-7.54,-2.33],[-6.68,-2.36]]},{"a":1.12,"c":[5.4,4.67],"v":[[6.02,4.25],[5.08,3.99],[4.78,5.1],[5.72,5.36]]},{"a":1.11,"c":[-3.98,-0.15],"v":[[-3.66,-1.03],[-4.65,-1.03],[-3.93,0.77],[-3.66,0.66]]},{"a":1.1,"c":[3.06,1.69],"v":[[3.7,1.28],[2.39,1.19],[2.53,2.06],[3.63,2.25]]},{"a":1.09,"c":[-2.45,-0.38],"v":[[-1.82,-0.1],[-2.01,-0.86],[-3.22,-0.86],[-2.75,0.29]]},{"a":1.09,"c":[4.25,3.26],"v":[[4.68,3.86],[4.95,2.91],[3.76,2.69],[3.6,3.57]]},{"a":1.08,"c":[-1.57,6.48],"v":[[-1.49,7.26],[-0.9,5.64],[-2.06,5.85],[-1.83,7.14]]},{"a":1.07,"c":[4.57,-4.65],"v":[[3.88,-5.03],[3.88,-4.15],[5.33,-4.39],[5.22,-5.03]]},{"a":1.07,"c":[7.88,-0.54],"v":[[8.46,-1.0],[7.49,-1.27],[7.42,-0.04],[8.15,0.16]]},{"a":1.03,"c":[-6.12,-4.57],"v":[[-6.6,-4.03],[-5.64,-4.03],[-5.64,-5.11],[-6.6,-5.11]]},{"a":1.03,"c":[2.52,5.44],"v":[[3.14,5.09],[2.16,4.82],[1.89,5.79],[2.88,6.06]]},{"a":1.03,"c":[-6.09,-1.81],"v":[[-6.56,-2.36],[-6.52,-1.14],[-5.64,-1.34],[-5.64,-2.39]]},{"a":1.01,"c":[3.54,-2.1],"v":[[2.9,-1.78],[3.91,-1.28],[4.0,-2.63],[3.36,-2.69]]},{"a":1.01,"c":[0.37,4.82],"v":[[0.52,3.95],[-0.35,5.48],[0.45,5.69],[0.87,4.15]]},{"a":0.99,"c":[1.9,2.86],"v":[[2.25,3.5],[2.44,2.46],[2.35,2.45],[1.42,2.6],[1.03,3.28]]},{"a":0.97,"c":[-0.79,4.82],"v":[[-1.72,4.33],[-0.33,5.29],[-0.49,5.72],[0.04,4.79],[-1.45,3.94]]},{"a":0.95,"c":[1.87,-1.39],"v":[[1.92,-0.78],[2.56,-2.04],[1.5,-2.04],[1.5,-0.7]]},{"a":0.95,"c":[-3.32,-0.19],"v":[[-2.75,0.29],[-3.22,-0.86],[-3.66,-0.86],[-3.66,0.66]]},{"a":0.94,"c":[1.7,3.84],"v":[[2.35,3.52],[1.03,3.28],[0.82,3.64],[2.09,4.37],[2.2,4.4]]},{"a":0.88,"c":[-1.79,-4.69],"v":[[-1.81,-4.04],[-0.56,-4.96],[-2.39,-4.96],[-2.39,-4.83]]},{"a":0.87,"c":[0.6,3.06],"v":[[0.82,3.64],[1.42,2.6],[-0.44,2.92]]},{"a":2.68,"c":[1.92,11.68],"v":[[2.12,10.21],[0.88,12.73],[1.73,13.15],[2.97,10.62]]},{"a":2.02,"c":[4.47,-10.2],"v":[[4.99,-11.18],[3.96,-11.18],[3.96,-9.23],[4.99,-9.23]]},{"a":2.01,"c":[-7.22,10.73],"v":[[-7.34,9.69],[-8.12,11.28],[-7.1,11.78],[-6.32,10.19]]},{"a":1.99,"c":[10.68,6.84],"v":[[11.74,6.62],[9.9,6.07],[9.67,6.94],[11.4,7.75]]},{"a":1.97,"c":[-2.83,8.32],"v":[[-4.23,8.09],[-2.17,9.1],[-2.06,8.82],[-1.86,8.28],[-3.85,7.31]]},{"a":1.97,"c":[-4.25,-10.2],"v":[[-3.75,-11.18],[-4.76,-11.18],[-4.76,-9.23],[-3.75,-9.23]]},{"a":1.96,"c":[-4.75,7.07],"v":[[-4.17,7.95],[-3.69,6.98],[-5.37,6.16],[-5.75,7.18]]},{"a":1.96,"c":[7.09,-10.2],"v":[[7.59,-11.18],[6.59,-11.18],[6.59,-9.23],[7.59,-9.23]]},{"a":1.96,"c":[-4.83,11.89],"v":[[-4.87,10.9],[-5.81,12.38],[-4.71,12.92],[-3.95,11.35]]},{"a":1.95,"c":[-4.19,-7.72],"v":[[-3.62,-8.58],[-4.76,-8.58],[-4.76,-6.86],[-3.62,-6.86]]},{"a":1.95,"c":[-6.21,11.22],"v":[[-6.32,10.19],[-7.1,11.78],[-6.2,12.22],[-5.24,10.71]]},{"a":1.93,"c":[3.3,-7.84],"v":[[2.81,-6.86],[3.8,-6.86],[3.8,-8.81],[2.81,-8.81]]},{"a":1.93,"c":[0.6,-12.92],"v":[[1.16,-13.78],[0.04,-13.78],[0.04,-12.06],[1.16,-12.06]]},{"a":1.92,"c":[9.1,-7.42],"v":[[8.24,-7.98],[8.24,-6.86],[9.96,-6.86],[9.96,-7.98]]},{"a":1.92,"c":[0.93,-10.2],"v":[[1.43,-11.18],[0.44,-11.18],[0.44,-9.23],[1.43,-9.23]]},{"a":1.91,"c":[11.02,-0.79],"v":[[10.23,0.12],[11.24,0.4],[11.7,-1.32],[11.23,-1.51],[10.71,-1.65]]},{"a":1.89,"c":[1.91,-10.2],"v":[[2.39,-11.18],[1.43,-11.18],[1.43,-9.23],[2.39,-9.23]]},{"a":1.87,"c":[-2.13,-7.72],"v":[[-1.58,-8.58],[-2.67,-8.58],[-2.67,-6.86],[-1.58,-6.86]]},{"a":1.86,"c":[-0.5,-12.92],"v":[[0.04,-13.78],[-1.04,-13.78],[-1.04,-12.06],[0.04,-12.06]]},{"a":1.83,"c":[-3.28,-10.2],"v":[[-2.81,-11.18],[-3.75,-11.18],[-3.75,-9.23],[-2.81,-9.23]]},{"a":1.83,"c":[1.42,-8.34],"v":[[0.44,-8.81],[0.44,-7.87],[2.39,-7.87],[2.39,-8.81]]},{"a":1.81,"c":[0.1,10.19],"v":[[0.42,11.17],[0.99,10.03],[0.36,9.72],[-0.39,9.51],[-0.89,10.53]]},{"a":1.78,"c":[10.99,5.94],"v":[[11.84,6.65],[12.09,5.81],[10.14,5.22],[9.9,6.07]]},{"a":1.78,"c":[12.93,0.03],"v":[[12.71,-0.91],[12.09,0.63],[13.26,0.95],[13.66,-0.53]]},{"a":1.76,"c":[-5.97,8.09],"v":[[-7.04,8.85],[-6.03,9.35],[-5.12,7.49],[-5.75,7.18],[-5.92,7.6]]},{"a":1.76,"c":[-1.94,-10.2],"v":[[-1.49,-11.18],[-2.39,-11.18],[-2.39,-9.23],[-1.49,-9.23]]},{"a":1.76,"c":[-0.5,11.39],"v":[[-0.11,12.25],[0.42,11.17],[-0.89,10.53],[-1.42,11.61]]},{"a":1.73,"c":[9.1,-8.49],"v":[[8.24,-8.99],[8.24,-7.98],[9.96,-7.98],[9.96,-8.99]]},{"a":1.73,"c":[-8.47,6.52],"v":[[-8.81,5.58],[-9.45,6.45],[-8.13,7.42],[-7.5,6.63]]},{"a":1.7,"c":[1.23,11.34],"v":[[1.58,9.94],[0.34,12.47],[0.88,12.73],[2.12,10.21]]},{"a":1.69,"c":[11.93,-0.3],"v":[[11.24,0.4],[12.09,0.63],[12.71,-0.91],[11.7,-1.32]]},{"a":1.66,"c":[-6.52,6.13],"v":[[-7.44,6.14],[-6.19,7.15],[-5.75,6.0],[-6.71,5.23]]},{"a":1.65,"c":[5.83,6.62],"v":[[6.55,6.02],[5.52,5.74],[5.11,7.23],[6.14,7.51]]},{"a":1.63,"c":[-3.15,-7.72],"v":[[-2.67,-8.58],[-3.62,-8.58],[-3.62,-6.86],[-2.67,-6.86]]},{"a":1.61,"c":[-7.56,5.26],"v":[[-7.54,4.36],[-8.53,5.27],[-7.44,6.14],[-6.72,5.25]]},{"a":1.59,"c":[7.08,-5.23],"v":[[7.61,-5.98],[6.55,-5.98],[6.55,-4.48],[7.61,-4.48]]},{"a":1.58,"c":[8.5,5.95],"v":[[9.54,5.81],[7.66,5.3],[7.49,5.92],[9.28,6.76]]},{"a":1.58,"c":[-9.62,-2.93],"v":[[-9.02,-2.26],[-9.06,-3.61],[-10.19,-3.61],[-10.19,-2.22]]},{"a":1.57,"c":[-1.73,10.78],"v":[[-1.42,11.61],[-0.88,10.51],[-2.07,9.93],[-2.54,11.06]]},{"a":1.57,"c":[8.34,-3.28],"v":[[7.61,-3.81],[7.61,-2.78],[8.93,-2.71],[9.23,-3.81]]},{"a":1.56,"c":[-9.08,7.32],"v":[[-9.45,6.45],[-10.1,7.35],[-8.65,8.06],[-8.13,7.42]]},{"a":1.55,"c":[11.65,1.28],"v":[[12.34,0.7],[11.34,0.43],[10.95,1.86],[11.95,2.14]]},{"a":1.53,"c":[4.76,9.49],"v":[[5.55,9.66],[4.3,8.48],[3.79,9.51],[5.38,10.3]]},{"a":1.52,"c":[8.46,-4.25],"v":[[9.4,-4.44],[7.61,-4.93],[7.61,-3.81],[9.23,-3.81]]},{"a":1.51,"c":[3.88,11.43],"v":[[2.97,10.62],[2.69,11.2],[4.85,12.26],[5.02,11.63]]},{"a":1.51,"c":[4.43,10.29],"v":[[3.79,9.51],[3.35,10.41],[5.21,10.92],[5.38,10.3]]},{"a":1.48,"c":[10.69,1.12],"v":[[11.34,0.43],[10.3,0.14],[9.97,1.33],[10.87,1.84],[10.95,1.86]]},{"a":1.47,"c":[7.17,-3.64],"v":[[7.61,-4.48],[6.73,-4.48],[6.73,-2.83],[7.61,-2.78]]},{"a":1.46,"c":[11.21,5.17],"v":[[12.09,5.81],[12.3,5.1],[10.32,4.56],[10.14,5.22]]},{"a":1.45,"c":[3.51,9.44],"v":[[3.19,10.73],[4.3,8.48],[3.87,8.07],[2.69,10.49]]},{"a":1.43,"c":[11.71,-3.2],"v":[[11.55,-4.16],[11.09,-2.46],[11.47,-2.36],[12.73,-3.83]]},{"a":1.42,"c":[7.6,7.27],"v":[[7.38,6.33],[6.95,7.89],[7.72,8.1],[8.34,6.77]]},{"a":1.41,"c":[-8.51,-2.95],"v":[[-8.0,-3.61],[-9.06,-3.61],[-9.02,-2.26],[-7.96,-2.3]]},{"a":1.41,"c":[6.08,-5.23],"v":[[6.55,-5.98],[5.48,-5.98],[5.73,-4.48],[6.55,-4.48]]},{"a":1.41,"c":[12.6,1.54],"v":[[13.26,0.95],[12.34,0.7],[11.95,2.14],[12.86,2.38]]},{"a":1.4,"c":[8.19,-5.38],"v":[[8.77,-5.98],[7.61,-5.98],[7.61,-4.93],[8.77,-4.61]]},{"a":1.38,"c":[8.08,-1.74],"v":[[8.82,-2.3],[7.54,-2.37],[7.49,-1.27],[8.46,-1.0]]},{"a":1.38,"c":[1.16,8.89],"v":[[0.99,10.03],[2.21,7.53],[1.48,7.33],[0.79,9.84],[0.36,9.72]]},{"a":1.37,"c":[11.11,-5.9],"v":[[11.69,-5.1],[11.69,-6.47],[10.84,-6.47],[10.84,-6.36],[10.5,-5.1]]},{"a":1.36,"c":[4.89,6.37],"v":[[5.52,5.74],[4.67,5.5],[4.26,6.99],[5.11,7.23]]},{"a":1.36,"c":[11.02,4.13],"v":[[10.32,4.56],[11.42,4.86],[11.73,3.71],[10.63,3.41]]},{"a":1.35,"c":[-6.31,-10.68],"v":[[-5.64,-11.18],[-6.98,-11.18],[-6.98,-10.17],[-5.64,-10.17]]},{"a":1.33,"c":[-8.47,-1.66],"v":[[-7.96,-2.3],[-8.89,-2.27],[-9.11,-1.17],[-7.91,-0.92]]},{"a":1.33,"c":[3.54,12.29],"v":[[4.82,12.37],[2.43,11.72],[2.31,11.98],[4.61,13.11]]},{"a":1.32,"c":[-1.27,9.77],"v":[[-0.88,10.51],[-0.39,9.51],[-1.74,9.15],[-2.07,9.93]]},{"a":1.3,"c":[9.77,8.1],"v":[[9.52,7.33],[9.02,8.4],[10.02,8.86],[10.52,7.79]]},{"a":1.3,"c":[1.92,8.72],"v":[[1.6,9.95],[2.72,7.67],[2.21,7.53],[1.13,9.72]]},{"a":1.29,"c":[4.74,7.63],"v":[[4.83,8.41],[5.78,7.41],[4.26,6.99],[4.07,7.69]]},{"a":1.29,"c":[9.62,3.55],"v":[[9.28,2.82],[8.95,4.01],[9.96,4.29],[10.28,3.09]]},{"a":1.28,"c":[9.58,0.51],"v":[[10.3,0.14],[9.15,-0.17],[8.91,0.72],[9.97,1.33]]},{"a":1.28,"c":[11.31,2.99],"v":[[10.63,3.41],[11.69,3.7],[12.0,2.58],[10.93,2.29]]},{"a":1.26,"c":[-9.64,-8.24],"v":[[-9.1,-8.81],[-10.19,-8.81],[-10.19,-7.66],[-9.1,-7.66]]},{"a":1.26,"c":[-4.01,12.29],"v":[[-4.71,12.92],[-4.06,13.24],[-3.3,11.67],[-3.95,11.35]]},{"a":1.26,"c":[-8.55,-8.24],"v":[[-8.01,-7.66],[-8.01,-8.81],[-9.1,-8.81],[-9.1,-7.66]]},{"a":1.26,"c":[-6.31,-9.7],"v":[[-6.98,-10.17],[-6.98,-9.23],[-5.64,-9.23],[-5.64,-10.17]]},{"a":1.25,"c":[12.37,3.28],"v":[[11.69,3.7],[12.74,3.98],[13.04,2.86],[12.0,2.58]]},{"a":1.25,"c":[9.9,2.41],"v":[[9.7,1.65],[9.06,2.76],[10.28,3.09],[10.55,2.14]]},{"a":1.25,"c":[-2.91,9.32],"v":[[-2.57,10.04],[-2.17,9.1],[-3.21,8.59],[-3.69,9.57]]},{"a":1.25,"c":[12.08,4.42],"v":[[11.42,4.86],[12.42,5.13],[12.74,3.98],[11.73,3.71]]},{"a":1.24,"c":[8.33,4.88],"v":[[7.97,4.18],[7.66,5.3],[8.69,5.58],[9.0,4.46]]},{"a":1.24,"c":[7.17,8.71],"v":[[6.95,7.89],[6.52,9.48],[7.45,9.33],[7.78,8.12]]},{"a":1.24,"c":[9.19,-5.25],"v":[[9.82,-5.98],[8.77,-5.98],[8.77,-4.61],[9.4,-4.44]]},{"a":1.24,"c":[4.39,-7.38],"v":[[3.8,-6.86],[4.99,-6.86],[4.99,-7.9],[3.8,-7.9]]},{"a":1.23,"c":[8.45,7.59],"v":[[8.34,6.77],[7.72,8.1],[8.59,8.34],[9.14,7.15]]},{"a":1.21,"c":[-7.23,7.41],"v":[[-7.5,6.63],[-8.05,7.31],[-6.98,8.17],[-6.4,7.52]]},{"a":1.18,"c":[-4.88,8.76],"v":[[-4.68,7.7],[-5.59,9.56],[-5.08,9.81],[-4.17,7.95]]},{"a":1.17,"c":[8.99,2.03],"v":[[8.8,1.14],[8.4,2.58],[9.06,2.76],[9.7,1.65]]},{"a":1.17,"c":[6.0,-9.72],"v":[[5.41,-10.22],[5.41,-9.23],[6.59,-9.23],[6.59,-10.22]]},{"a":1.16,"c":[-9.6,-1.76],"v":[[-9.11,-1.17],[-8.89,-2.27],[-10.19,-2.22],[-10.19,-1.39]]},{"a":1.15,"c":[7.04,-8.29],"v":[[7.59,-7.77],[7.59,-8.81],[6.49,-8.81],[6.49,-7.77]]}]};

diff --git a/planet.js b/planet.js
@@ -10,7 +10,7 @@ import * as THREE from 'three';
 import { FullScreenQuad } from 'three/addons/postprocessing/Pass.js';
 import { mergeVertices, mergeGeometries } from 'three/addons/utils/BufferGeometryUtils.js';
 import { GLTFLoader } from 'three/addons/loaders/GLTFLoader.js';
-import CITY_PLAN from './city_plan.js?v=4';
+import CITY_PLAN from './city_plan.js?v=5';
 import LAYOUT from './city_layout.js?v=2';
 const llv = (a) => ll(a[0], a[1]);   // manifest [lat,lon] → unit direction
 import { DRACOLoader } from 'three/addons/loaders/DRACOLoader.js';

diff --git a/index.html b/index.html
@@ -606,6 +606,6 @@
     }
   }
   </script>
-  <script type="module" src="./planet.js?cb=p88"></script>
+  <script type="module" src="./planet.js?cb=p89"></script>
 </body>
 </html>
